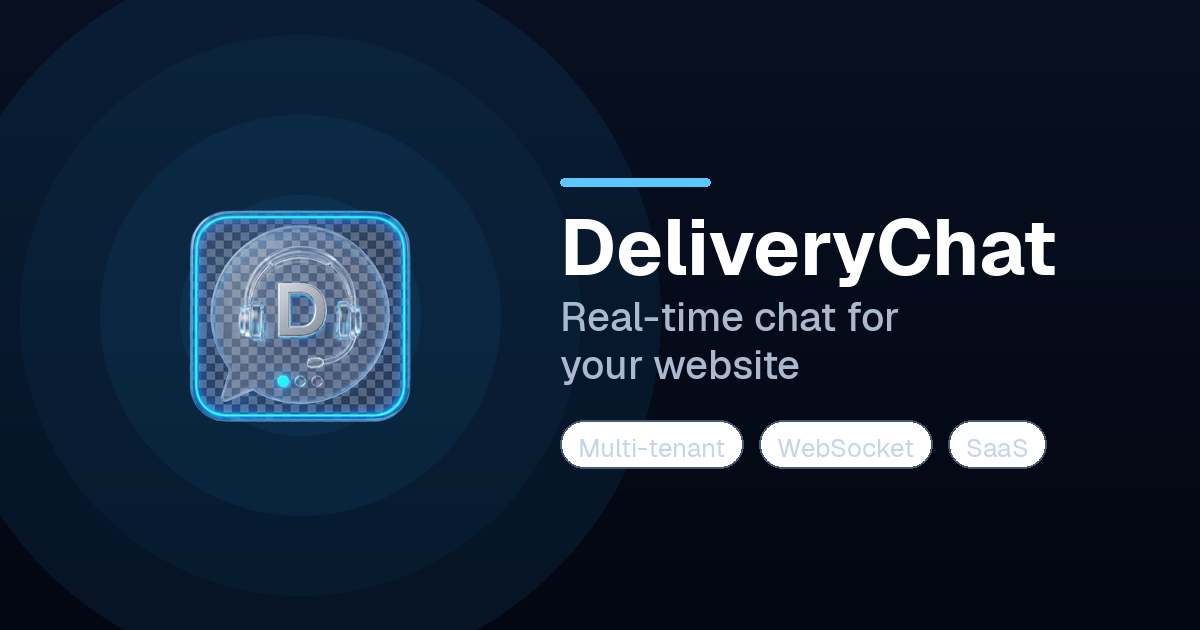
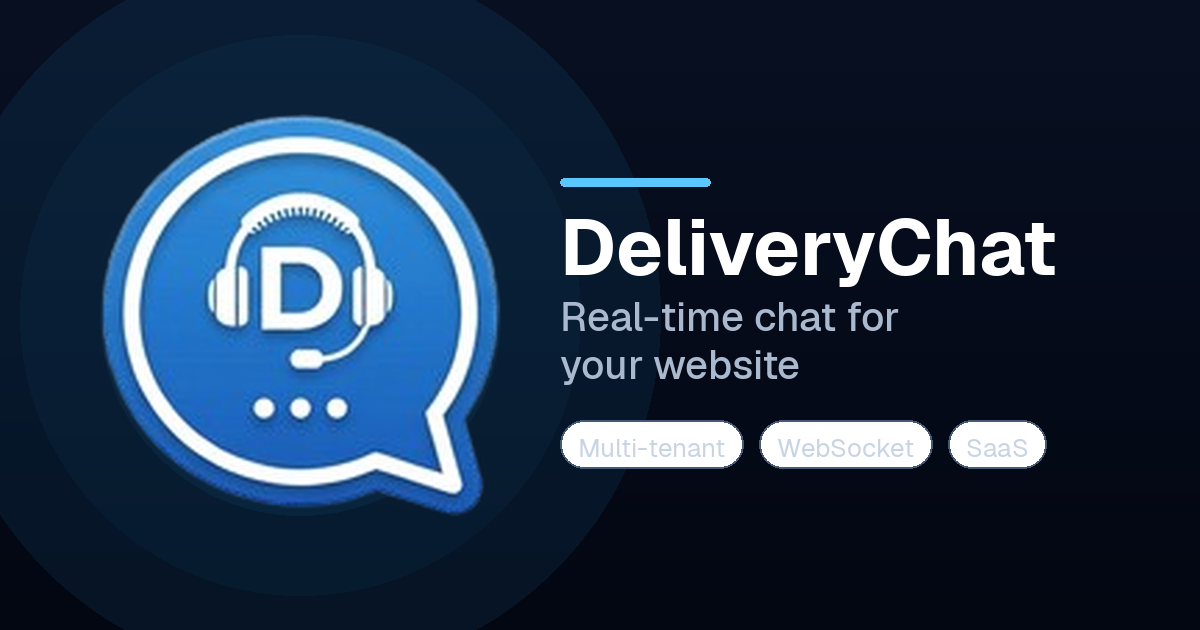
feat(web): enhance SEO with Open Graph and Twitter Card meta tags
- Updated Layout.astro to include Open Graph and Twitter Card meta tags for improved social media sharing.
- Introduced getAbsoluteUrl function to generate absolute URLs for SEO purposes.
- Added a new og-image.png for link previews.
- Documented the changes in the new seo-social-meta.md file for clarity on implementation and usage.

Changed region(s): [[0.0617, 0.181, 0.4317, 0.8143]]

diff --git a/apps/web/src/lib/__tests__/urls.test.ts b/apps/web/src/lib/__tests__/urls.test.ts
@@ -1,5 +1,12 @@
 import { afterEach, beforeEach, describe, expect, it, vi } from "vitest";
-import { getAdminUrl, getApiUrl, getDocumentationUrl, getWidgetScriptUrl } from "../urls";
+import {
+  getAbsoluteUrl,
+  getAdminUrl,
+  getApiUrl,
+  getDocumentationUrl,
+  getSiteUrl,
+  getWidgetScriptUrl,
+} from "../urls";
 
 const ORIGINAL_LOCATION = window.location;
 
@@ -142,6 +149,30 @@ describe("getApiUrl", () => {
     setProdHostname("localhost");
 
     expect(getApiUrl()).toBe("http://localhost:8000");
+  });
+});
+
+describe("getSiteUrl", () => {
+  it("returns the canonical production origin without a trailing slash", () => {
+    expect(getSiteUrl()).toBe("https://www.deliverychat.online");
+  });
+});
+
+describe("getAbsoluteUrl", () => {
+  it("joins an absolute path onto the canonical origin", () => {
+    expect(getAbsoluteUrl("/og-image.png")).toBe(
+      "https://www.deliverychat.online/og-image.png",
+    );
+  });
+
+  it("tolerates a path without a leading slash", () => {
+    expect(getAbsoluteUrl("og-image.png")).toBe(
+      "https://www.deliverychat.online/og-image.png",
+    );
+  });
+
+  it("returns the bare origin for the root path", () => {
+    expect(getAbsoluteUrl("/")).toBe("https://www.deliverychat.online/");
   });
 });
 

diff --git a/apps/web/src/lib/urls.ts b/apps/web/src/lib/urls.ts
@@ -103,6 +103,27 @@ export function getWidgetScriptUrl(): string {
   return `${getApiUrl()}/widget.js`;
 }
 
+/**
+ * Canonical public origin of the landing site. Used to build absolute URLs
+ * for SEO/social meta tags (Open Graph, Twitter Card) — crawlers such as
+ * LinkedInBot require absolute URLs and only ever fetch production, so this
+ * is intentionally fixed rather than environment-derived.
+ */
+const SITE_URL_PRODUCTION = "https://www.deliverychat.online";
+
+export function getSiteUrl(): string {
+  return SITE_URL_PRODUCTION;
+}
+
+/**
+ * Resolve a site-relative path to an absolute URL against the canonical origin.
+ * Tolerates paths with or without a leading slash.
+ */
+export function getAbsoluteUrl(path: string): string {
+  const normalizedPath = path.startsWith("/") ? path : `/${path}`;
+  return `${getSiteUrl()}${normalizedPath}`;
+}
+
 const DOCS_URL_LOCAL = "http://localhost:3003";
 const DOCS_URL_PRODUCTION = "https://docs.deliverychat.online/";
 

diff --git a/packages/docs/landing-chat-demo/seo-social-meta.md b/packages/docs/landing-chat-demo/seo-social-meta.md
@@ -1,0 +1,40 @@
+# SEO & Social Meta (Open Graph)
+
+How the landing page (`apps/web`) renders link previews for LinkedIn, Facebook, WhatsApp, Slack, and X/Twitter.
+
+## Problem
+
+`Layout.astro` previously emitted only a `<title>` and favicon links. Social crawlers (LinkedInBot, facebookexternalhit, Slackbot, etc.) build link previews from **Open Graph** meta tags. With none present — and crucially no `og:image` — pasting `https://www.deliverychat.online` produced a bare, image-less preview.
+
+## Solution
+
+All meta tags live in `apps/web/src/layouts/Layout.astro` so every page inherits them. The layout accepts optional props for per-page overrides:
+
+| Prop          | Default                                          |
+| ------------- | ------------------------------------------------ |
+| `title`       | `DeliveryChat - Multi-tenant Chat Platform`      |
+| `description` | Multi-tenant SaaS chat one-liner                 |
+| `path`        | `/` — used for `canonical` and `og:url`          |
+
+Tags emitted: `description`, `canonical`, the full Open Graph set (`og:type`, `og:site_name`, `og:title`, `og:description`, `og:url`, `og:image` + `secure_url`/`type`/`width`/`height`/`alt`), and the Twitter Card set (`summary_large_image`).
+
+## Why absolute URLs
+
+LinkedIn (and most crawlers) **ignore relative image paths** and only ever fetch production. URLs are built with `getAbsoluteUrl(path)` from `apps/web/src/lib/urls.ts`, which joins the path onto the canonical origin `https://www.deliverychat.online` (constant `SITE_URL_PRODUCTION`). `getSiteUrl()` / `getAbsoluteUrl()` are unit-tested in `urls.test.ts`.
+
+## The OG image
+
+- File: `apps/web/public/og-image.png` — **1200×630** (the 1.91:1 ratio LinkedIn renders full-width), well under the 5 MB limit.
+- Built from `public/favicon.png` (the clean, transparent logo). Note: `public/logo.png` has the editor transparency checkerboard baked into its pixels and must **not** be used as a source.
+
+## Refreshing the preview after deploy
+
+Crawlers cache aggressively. After deploying, force a re-scrape:
+
+- LinkedIn — [Post Inspector](https://www.linkedin.com/post-inspector/)
+- Facebook/WhatsApp — [Sharing Debugger](https://developers.facebook.com/tools/debug/)
+- X/Twitter — Card Validator
+
+## To change the preview image
+
+Replace `apps/web/public/og-image.png` keeping the 1200×630 dimensions (update the `og:image:width/height` tags if you change them), then re-scrape via the inspectors above.

diff --git a/packages/docs/README.md b/packages/docs/README.md
@@ -41,3 +41,7 @@ Architecture guides, implementation references, and technical decision records f
 ### Rate Limiting
 
 - [Redis Migration (TODO)](rate-limiting/to-do/redis-migration.md) — Migration plan from MemoryStore to Redis-backed rate limiting
+
+### Landing Page
+
+- [SEO & Social Meta](landing-chat-demo/seo-social-meta.md) — Open Graph / Twitter Card tags, OG image, absolute URLs, refreshing link previews on LinkedIn
